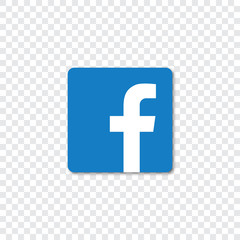
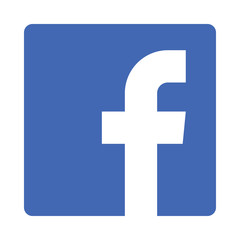
spreedcity

diff --git a/index.html b/index.html
@@ -47,8 +47,8 @@
       <div class="footer">
         <img
           src="./image/facebook.jpg"
-          width="60"
-          height="60"
+          width="45"
+          height="45"
           alt="facebook"
         />
         <img
@@ -57,16 +57,16 @@
           height="60"
           alt="instagram"
         />
-        <img
+        <!-- <img
           src="./image/pinterest.jpg"
-          width="60"
-          height="60"
+          width="80"
+          height="80"
           alt="pinterest"
-        />
+        /> -->
         <img
           src="./image/twitter.jpg"
-          width="50"
-          height="50"
+          width="45"
+          height="45"
           alt="twitter"
         />
         <p>

diff --git a/css/sp.css b/css/sp.css
@@ -17,7 +17,7 @@
   font-weight: bold;
 }
 .text {
-  font-size: 22px;
+  font-size: 20px;
   /* width: 1018px; */
   font-family: monospace;
 }
